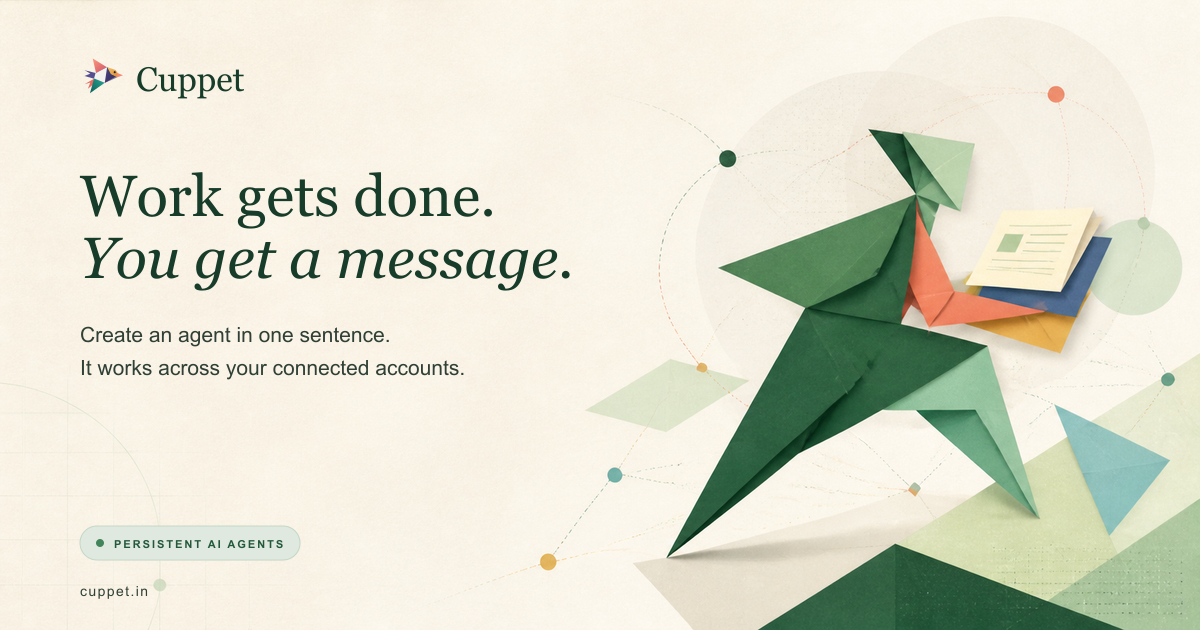
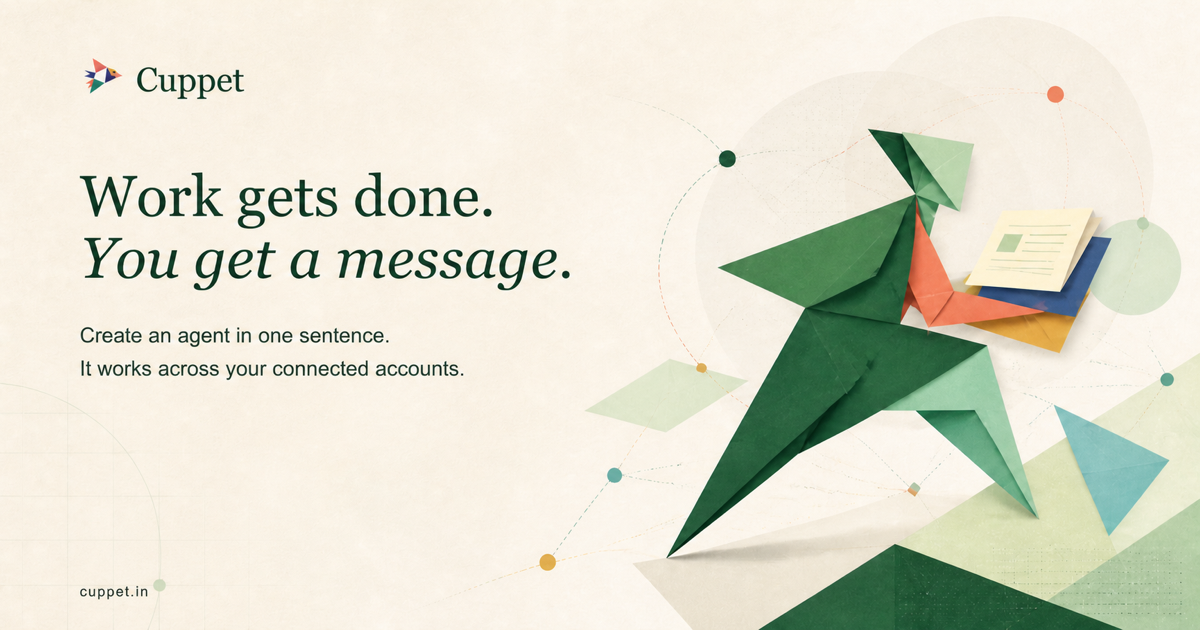
content: refresh og image and explain cuppet solution

diff --git a/website/src/data/blog.ts b/website/src/data/blog.ts
@@ -40,6 +40,13 @@ export const blogPosts: BlogPost[] = [
         ],
       },
       {
+        heading: 'How Cuppet solves the problem',
+        paragraphs: [
+          'Cuppet turns that repeated search into one persistent news agent. You describe the topics, geography, freshness, balance, and schedule that matter to you once. Cuppet then researches current sources, filters out the noise, ranks the developments that best match your instruction, and brings them back as a concise brief. You start with a useful signal instead of a blank search page.',
+          'The important shift is that Cuppet handles the recurring work without taking away your judgment. You can inspect the context behind a story, follow the original source, and refine the instruction whenever your priorities change. The system carries the search burden so you can spend your attention deciding what the news means and what deserves a response.',
+        ],
+      },
+      {
         heading: 'Tell Cuppet what deserves attention once',
         paragraphs: [
           'Cuppet starts with a persistent instruction instead of a one-time search. You can describe the brief in plain language: follow AI infrastructure and technology policy, include local and global developments, keep it balanced, and send it every morning. The instruction becomes a reusable news agent that remembers the topics, the scope, the level of freshness, and the time that works for you.',
